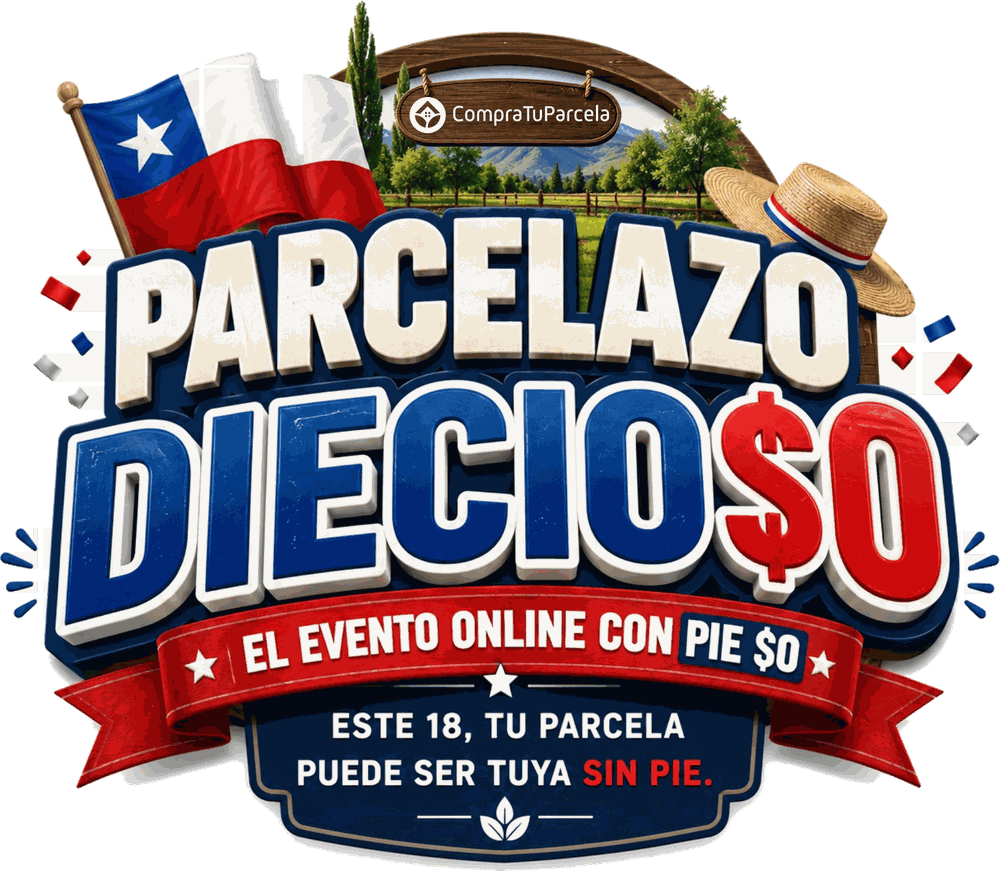
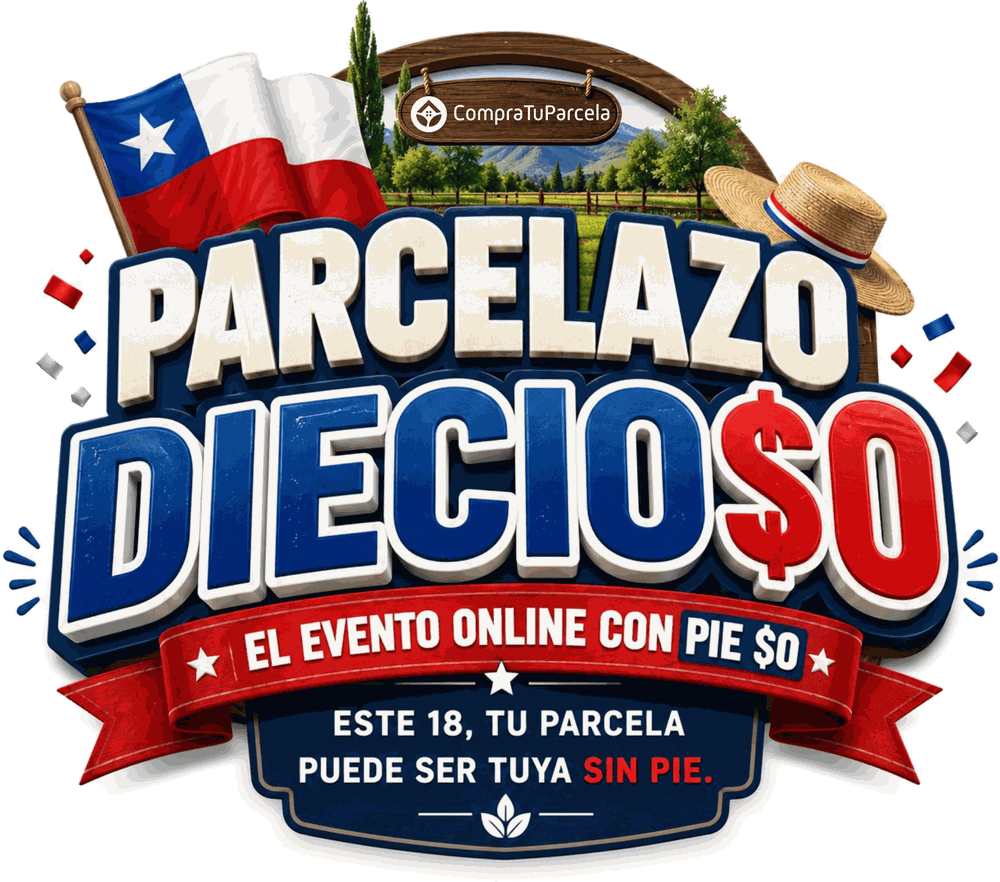
Rehace el recorte del escudo: las lineas eran mias
Las lineas sobre el escudo no venian del original ni del fondo del
hero: las introdujo el recorte. Al quitar el fondo blanco, la franja
blanca de la bandera quedaba pegada al fondo y desaparecia, y lo
parchee restaurando como opaco todo lo que cayera dentro del rango
horizontal y vertical del contenido. Ese metodo restaura en bloques
rectangulares, y sus bordes eran las lineas.

El parche sobraba. La franja de la bandera tiene sombreado, asi que
no es blanco puro: bajando la tolerancia del flood fill de 30 a 3, el
relleno se detiene solo al llegar a la bandera y la conserva entera,
junto con los confetis y el sombrero. Los blancos encerrados por el
diseno se mantienen sin ayuda.

Despues se limpia el halo de antialias con una expansion de 4 pixeles
que solo avanza pegada al borde ya encontrado, y se suaviza el alpha
para que el contorno no quede aserrado.

El escudo pasa a 1000x882 y se actualizan las dimensiones del <img>
para no provocar salto de layout. El WebP sube a calidad 92 y el PNG
de respaldo se cuantiza a 256 colores en vez de 224. La imagen de
redes se regenera desde el escudo nuevo.

Vuelven los rayos del fondo, que no tenian que ver con el problema,
ahora con rgba(233,162,27,0) en lugar de transparent.

diff --git a/index.html b/index.html
@@ -180,6 +180,20 @@ h1,h2,h3{font-family:var(--display);font-weight:400;line-height:.95;letter-spaci
 /* ============================================================
    HERO
    ============================================================ */
+/* Rayos de afiche.
+   El segundo color va como rgba(233,162,27,0) y NO como transparent:
+   en CSS transparent es rgba(0,0,0,0), asi que el navegador interpola
+   hacia negro y los bordes de cada franja salen sucios sobre el azul. */
+.hero__rayos{
+  position:absolute;inset:0;pointer-events:none;opacity:.13;
+  background:repeating-conic-gradient(from 0deg at 50% 24%,
+    rgba(233,162,27,.9) 0deg 6deg, rgba(233,162,27,0) 6deg 12deg);
+  mask-image:radial-gradient(ellipse at 50% 24%,#000 5%,rgba(0,0,0,0) 65%);
+  -webkit-mask-image:radial-gradient(ellipse at 50% 24%,#000 5%,rgba(0,0,0,0) 65%);
+  animation:girar 90s linear infinite;
+}
+@keyframes girar{to{transform:rotate(360deg)}}
+
 .hero{
   position:relative;overflow:hidden;
   background:var(--noche);
@@ -622,6 +636,8 @@ input[type=range]::-moz-range-thumb{
 
 <!-- ============ HERO ============ -->
 <header class="hero" id="top">
+  <div class="hero__rayos" aria-hidden="true"></div>
+
   <!-- Volantines decorativos -->
   <svg class="volantin volantin--1" viewBox="0 0 100 170" aria-hidden="true">
     <g><path d="M50 2 L96 52 L50 118 L4 52 Z" fill="#C8352F" stroke="#23140A" stroke-width="4"/>
@@ -656,7 +672,7 @@ input[type=range]::-moz-range-thumb{
     <h1>
       <picture>
         <source srcset="assets/escudo-parcelazo.webp" type="image/webp">
-        <img src="assets/escudo-parcelazo.png" width="1000" height="871"
+        <img src="assets/escudo-parcelazo.png" width="1000" height="882"
              alt="Parcelazo Diecio$0 — el evento online con Pie $0. Este 18, tu parcela puede ser tuya sin pie."
              fetchpriority="high">
       </picture>
